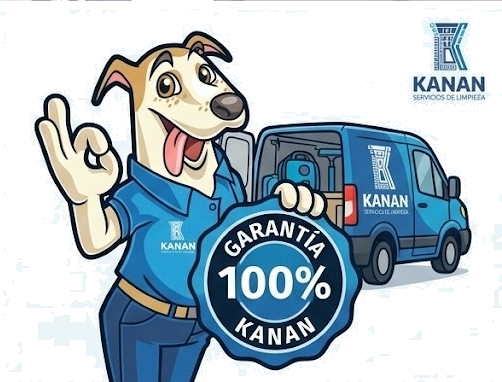
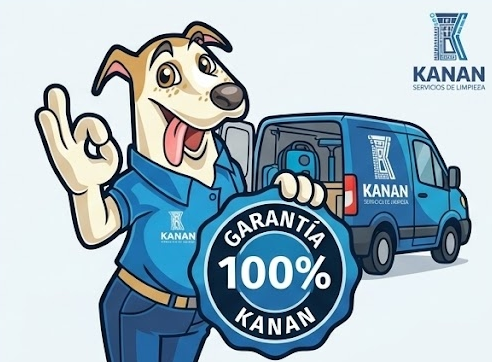
fix(stickers): restaurar vector original sin mordeduras de pixelado con troquelado blanco natural y tarjeta limpia

diff --git a/src/components/admin/agent-flow/NodeEditorDrawer.tsx b/src/components/admin/agent-flow/NodeEditorDrawer.tsx
@@ -316,11 +316,13 @@ export const NodeEditorDrawer: React.FC<NodeEditorDrawerProps> = ({
                 {/* Sticker Mockup si existe */}
                 {formData.stickerPath && (
                   <div className="flex justify-start mb-2 animate-in fade-in zoom-in-95">
-                    <img 
-                      src={formData.stickerPath} 
-                      alt="Sticker Preview" 
-                      className="w-28 h-auto max-h-32 object-contain drop-shadow-md"
-                    />
+                    <div className="p-2 rounded-2xl bg-white shadow-md inline-block max-w-[140px]">
+                      <img 
+                        src={formData.stickerPath} 
+                        alt="Sticker Preview" 
+                        className="w-full h-auto object-contain rounded-xl"
+                      />
+                    </div>
                   </div>
                 )}
 
